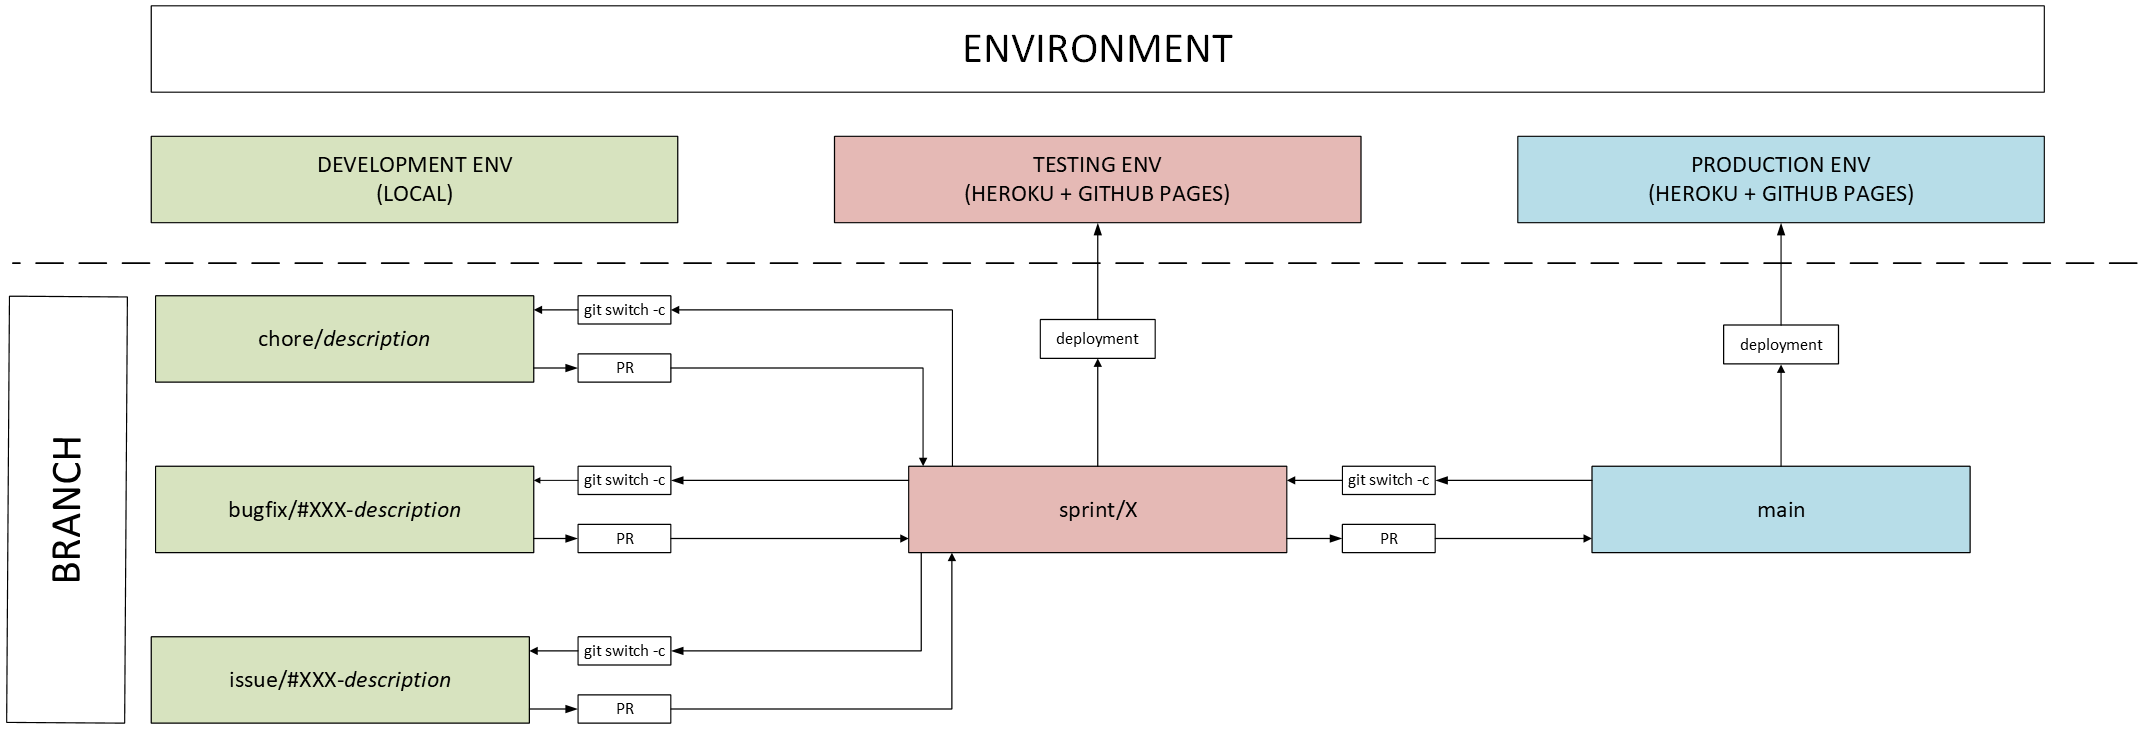
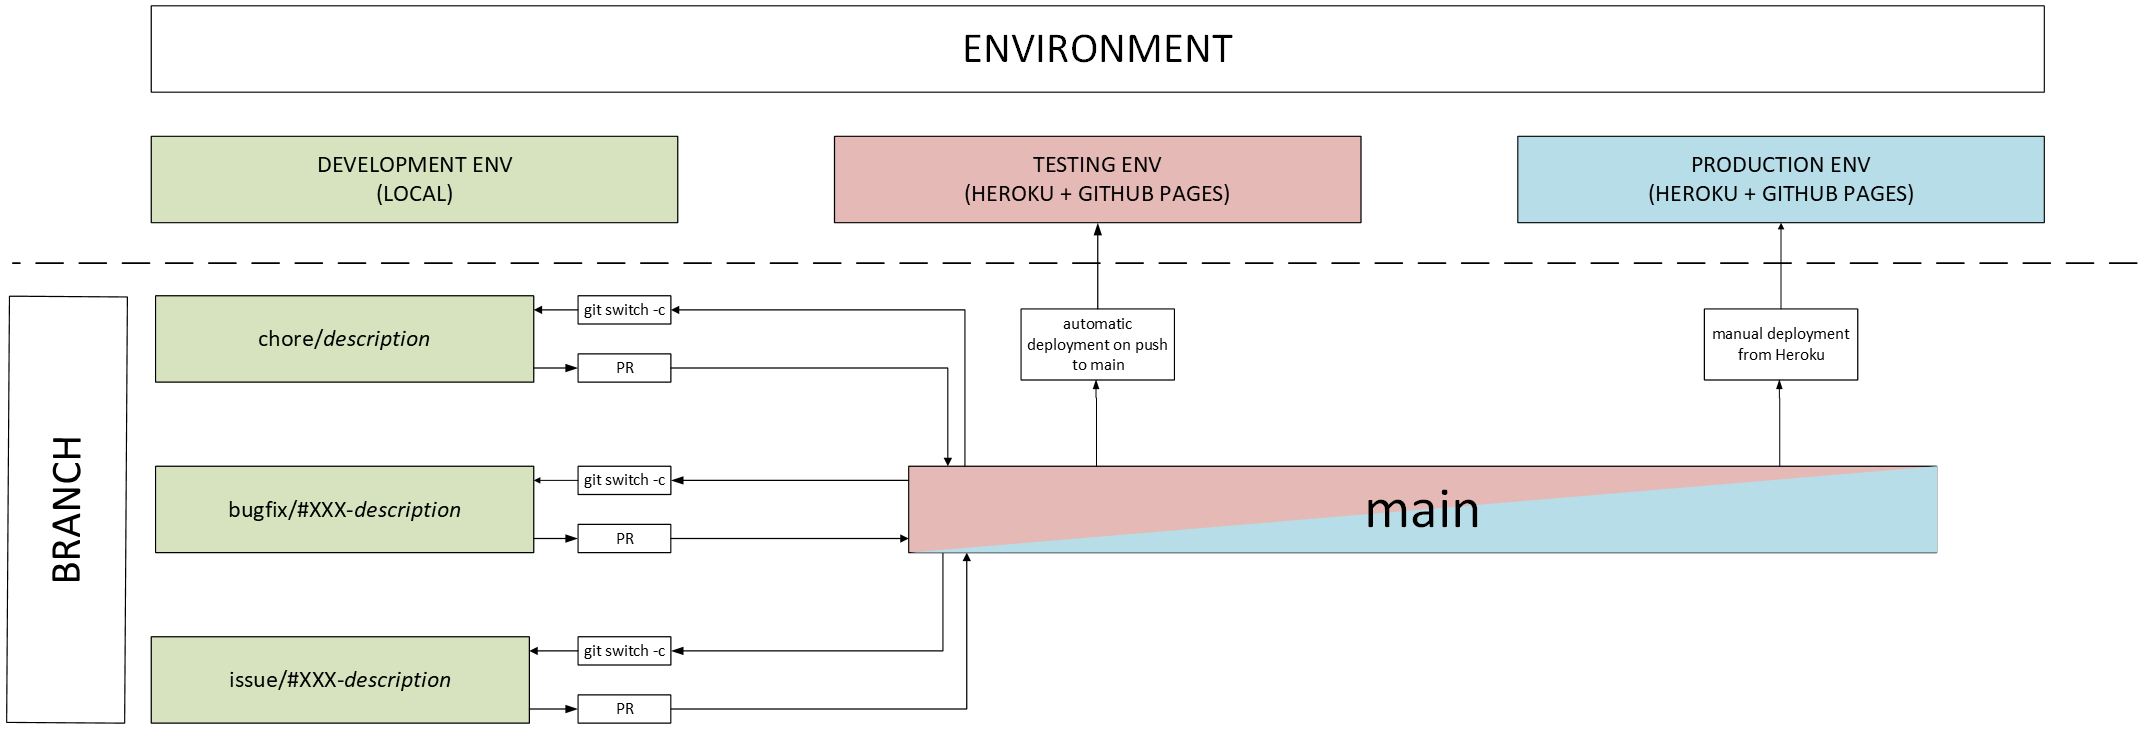
issue/#353-update-branching-and-deployment-docs * update branching strategy and deployment docs * update branching strategy image * update main README

diff --git a/documents/guides/deployment_guide.md b/documents/guides/deployment_guide.md
@@ -4,22 +4,24 @@ This guide describes the step-by-step process of deploying the backend (Heroku) 
 
 We can deploy the app to two different environments: testing (staging) and production environments.
 
-## Backend Deployment (Heroku)
-
-- Testing:
-  - Heroku App Dashboard (testing): https://dashboard.heroku.com/apps/fisma-benefit-app-testing
-  - Testing backend URL: https://fisma-benefit-app-testing-XXXXXXXXX.herokuapp.com/
-- Production:
-  - Heroku App Dashboard (production): https://dashboard.heroku.com/apps/fisma-benefit-app
-  - Production backend URL: https://fisma-benefit-app-XXXXXXXXX.herokuapp.com/
-
 ### Prerequisites
 
-- Heroku account with CLI installed (see [the guide](./heroku_cli_setup.md) on this if needed)
+- Heroku account with CLI installed for logging (see [the guide](./heroku_cli_setup.md) on this if needed)
 - Access to repo: https://github.com/fisma-benefit-app/benefit-app
 - Database credentials available in Heroku Config Vars
+- Heroku backend URLs set up in GitHub Actions repository secrets: `HEROKU_PRODUCTION_URL` and `HEROKU_TESTING_URL`
 
-### 1. Backup Database
+URL values can be found in the `backend-credentials` repository.
+
+## 1. Deployment workflow
+
+Our deployments are handled via Heroku and a GitHub Actions workflow `run-deployments`. See the workflow file here: [run-deployments.yml](../../.github/workflows/run-deployments.yml)
+
+The workflow file is triggered when any backend deployment is done in Heroku. Deployment to testing is done automatically on each merge to `main` branch, and deployment to production is done manually in Heroku, which triggers the frontend production deployment.
+
+The workflow file recognizes which environment (`fisma-benefit-app` for production and `fisma-benefit-app-testing` for testing) is deployed in Heroku, and based on this deploys frontend to either production or testing.
+
+## 2. Backup Database
 
 Before any deployment, ensure a database backup is taken. Get credentials from the `backend-credentials` repo.
 
@@ -37,33 +39,60 @@ psql <db-url> < backup.sql
 # Example: psql postgres://username:password@host:port/dbname < backup.sql
 ```
 
-### 2. Deploy via Heroku Dashboard
+## 3. Deploy to production
 
-1. Open Heroku app:
-   - for testing: https://dashboard.heroku.com/apps/fisma-benefit-app-testing
-   - for production: https://dashboard.heroku.com/apps/fisma-benefit-app
+To deploy to production environments, follow these steps:
+
+1. Open Heroku production app: https://dashboard.heroku.com/apps/fisma-benefit-app
 2. Go to Deploy tab
 3. Ensure GitHub repository `fisma-benefit-app/benefit-app` is connected: we use the same repository for both testing and production deployments
-4. Select correct branch and click `Deploy Branch`
-   - for testing, select branch `sprint/X`
-   - for production, select branch `main`
+4. Under `Manual deploy`, select `main` branch and click `Deploy Branch`
+5. This triggers the `run-deployments` GitHub Actions workflow which
+  - echos a message that backend production deployment is handled by Heroku and not the workflow itself
+  - deploys frontend to GitHub Pages production environment
+  - waits for the frontend production deployment to finish
+  - deploys frontend to GitHub Pages testing environment
 
 Heroku deploys only the `backend` directory thanks to the `subdir buildpack` using the `PROJECT_PATH` config variable.
 
-### 3. Check Logs
+**IMPORTANT:** We need to deploy frontend to testing environment after doing the production deployment, because due to GitHub Pages limitations, the production deployment erases the frontend testing environment. This is because the frontend testing environment is a subpage in our GitHub Pages production page, so deployment to production deploys the whole page again. Running frontend testing deployment re-creates this subpage.
 
-Use Heroku CLI to monitor logs:
+### Production logging
+
+Use Heroku CLI to monitor backend logs:
+
+```bash
+heroku login
+heroku logs --tail --app fisma-benefit-app
+```
+
+Frontend build logs (GitHub Actions) can be found here: https://github.com/fisma-benefit-app/benefit-app/actions (look for “pages-build-deployment”)
+
+## 4. Deploy to testing
+
+To deploy to testing environments, follow these steps:
+
+1. Heroku testing app is set up to automatically deploy to testing after each merge to `main`. There is no need to manually trigger the testing deployment in Heroku.
+2. Heroku's automatic deployment triggers the `run-deployments` GitHub Actions workflow which
+  - echos a message that backend testing deployment is handled by Heroku and not the workflow itself
+  - deploys frontend to GitHub Pages testing environment
+
+Heroku deploys only the `backend` directory thanks to the `subdir buildpack` using the `PROJECT_PATH` config variable.
+
+### Testing logging
+
+Use Heroku CLI to monitor backend logs:
 
 ```bash
 heroku login
 heroku logs --tail --app fisma-benefit-app-testing
-heroku logs --tail --app fisma-benefit-app
 ```
 
-## Frontend Deployment (GitHub Pages)
+Frontend build logs (GitHub Actions) can be found here: https://github.com/fisma-benefit-app/benefit-app/actions (look for “pages-build-deployment”)
 
-- GitHub Pages Dashboard: https://github.com/fisma-benefit-app/benefit-app/settings/pages
-- Build logs (GitHub Actions): https://github.com/fisma-benefit-app/benefit-app/actions (look for “pages-build-deployment”)
+## Frontend deployment from CLI
+
+If you, for some reason, want to do manual frontend deployment to GitHub Pages, follow these steps:
 
 ### 1. Install dependencies
 
@@ -88,18 +117,16 @@ VITE_API_URL=https://fisma-benefit-app-testing-XXXXXXXXX.herokuapp.com
 VITE_BASE_PATH=/benefit-app/testing/
 ```
 
-`VITE_BASE_PATH` must be set here so that Vite knows to dynamically set the base path according to the run deployment script. Without `VITE_BASE_PATH`, deployment fails.
+`VITE_BASE_PATH` must be set here so that Vite knows to dynamically set the base path according to the run deployment script. Without `VITE_BASE_PATH`, deployment fails. You also need the correct backend URLs for `VITE_API_URL`. You can find the URLs in the `backend-credentials` repository.
 
 ### 3. Build & Deploy
 
-Make sure to have pulled the latest changes in `sprint/X` and `main` branches. In `sprint/X`, `X` is the number of the current sprint.
-
-Deployment to testing environment is done from the `sprint/X` branch. Deployment to production environment is done from the `main` branch.
+Make sure you have pulled the latest changes in the `main` branch. Deployment to production and testing environments is done from the `main` branch.
 
 ```bash
 # To deploy to testing environment
-git switch sprint/X
-git pull origin sprint/X
+git switch main
+git pull origin main
 cd frontend
 npm run deploy:testing
 ```
@@ -110,10 +137,15 @@ git switch main
 git pull
 cd frontend
 npm run deploy:production
+# Wait for GitHub Pages deployment to finish (takes maybe 3 minutes)
+npm run deploy:testing
+
+# NOTE: After running production deployment, you need to run testing deployment again! 
+# This is because frontend production deployment erases frontend testing environment
+# This is a GitHub Pages limitation, and the workflow takes this into account
 ```
 
 These run:
-
 - predeploy → builds into `dist/`
 - testing:
   - deploy → publishes `dist/` to GitHub Pages (`gh-pages` branch, `testing` directory)
@@ -130,4 +162,4 @@ These run:
 
 - Always backup the database before backend deployment
 - Ensure `.env.testing` and `.env.production` have the correct Heroku backend URLs and base paths before building frontend to testing or production
-- Run frontend deployment scripts from correct branches (`sprint/X` branch for testing, `main` for production)
+- Run correct frontend deployment scripts to deploy to correct environments from correct branches (`npm run deploy:testing` for testing, `npm run deploy:production` for production)

diff --git a/documents/guides/branching_strategy.md b/documents/guides/branching_strategy.md
@@ -1,8 +1,8 @@
 # Branching strategy guide
 
-This document further explains the branching strategy used inBenefit application's development and CI/CD pipeline.
+This document further explains the branching strategy used in Benefit application's development and CI/CD pipeline.
 
-The goal of the strategy is to simplify development work when multiple developers are working on the same repository, avoid merge conflicts, and proactively prevent deployment-related issues. Branches named according to predefined schemas also tie development work more closely to project management, make branches more understandable to other developers, and eliminate the need to ponder what the branch should be named.
+The goal of the strategy is to simplify development work when multiple developers are working on the same repository, avoid merge conflicts, and proactively prevent deployment-related issues. The following strategy is also open-source contribution friendly. Branches named according to predefined schemas also tie development work more closely to project management, make branches more understandable to other developers, and eliminate the need to ponder what the branch should be named.
 
 ## Branching strategy flow
 
@@ -17,9 +17,9 @@ Here, the branching strategy has been visualized as an image.
 
 The strategy is implemented as outlined below:
 
-1) At the beginning of the sprint, a sprint-specific branch is created from the main branch, named `sprint/X`, where “X” represents the sprint number. For example, for sprint number 9, the branch would be named `sprint/9`. This sprint branch acts as a “collection branch” for all development work done during the sprint. The sprint branch is pushed to GitHub, from where other developers can fetch it into their local development environments.
+1) We use trunk-based development. That means that all merges are done directly to `main`; there are no sprint-specific branches.
 
-2) Developers create local development branches from the sprint branch using, for example, the `git switch -c` command. The naming schema for development branches depends on the type of development:
+2) Developers create local development branches from `main` branch using, for example, the `git switch -c` command. The naming schema for development branches depends on the type of development:
 
     - for feature issues, the naming schema is `issue/#XXX-description`
     - for bugfixes, the naming schema is `bugfix/#XXX-description`
@@ -30,34 +30,29 @@ The strategy is implemented as outlined below:
     - `bugfix/#220-functional-component-shows-wrong-title`
     - `chore/fix-typos-in-documentation`
 
-    This way the branches we open PRs from are clearly linked to a specific issue. Each issue and bugfix on the project board should have its own dedicated branch. Chores are small changes that don't have their own issues due to the minimal effort and impact they have.
+    This way, the branches we open PRs from are clearly linked to a specific issue. Each issue and bugfix on the project board should have its own dedicated branch. Chores are small changes that don't have their own issues due to the minimal effort and impact they have.
 
-3) When a development branch is ready to be merged into the sprint branch, it is pushed to GitHub as a new branch, and a pull request is opened for review by another developer. When each development branch contains changes related to only one issue, it’s easier to keep track of what has been done. It also makes the reviewer’s job easier, as pull requests remain reasonably sized and focused on a single issue.
+3) When a development branch is ready to be merged into `main` branch, it is pushed to GitHub as a new branch, and a pull request is opened for review by another developer. When each development branch contains changes related to only one issue, it’s easier to keep track of what has been done. It also makes the reviewer’s job easier, as pull requests remain reasonably sized and focused on a single issue.
 
     ```
-    !! While coding, if you notice that something not related to the issue you are currently working on could be changed, don't implement it in the same pull request! Instead, create a separate issue and open a separate PR for it. This way our PRs stay clean and compact and all our work gets documented in project management.
+    !! While coding, if you notice that something not related to the issue you are currently working on could be changed, don't implement it in the same pull request!
+    !! Instead, create a separate issue and open a separate PR for it. This way our PRs stay clean and compact and all our work gets documented in project management.
 
     !! If you notice a bug that needs to be fixed, create a bug issue for it and fix it in a separate PR.
     ```
 
-4) After the pull request is approved and automated checks pass, the development branch can be merged into the sprint branch. The development branch is automatically deleted from GitHub.
+4) After the pull request is approved and automated checks pass, the development branch can be merged into `main` branch. The development branch is automatically deleted from GitHub.
 
-5) Steps 2–4 are repeated until the end of the sprint.
+5) Merging into `main` triggers automatic deployment to testing environments in Heroku and GitHub Pages.
 
-6) At the end of the sprint, all changes collected in the sprint branch are merged into the `main` branch via a pull request.
-
-7) Deployment can be done from the `main` branch to bring the sprint’s changes into the production environment (Heroku and GitHub pages).
-
-8) At the beginning of the next sprint, a new sprint branch is created from `main`, and development work begins again from step 1.
+6) Select a new issue to work on and create a new development branch from `main`.
 
 ## Notes
 
 A few notes regarding the strategy:
 
-1) **`main` is sacred** – no development branches should be pushed directly to `main`! This is also enforced through GitHub repository rules. The `main` branch should always reflect the version currently in production. The only exceptions to this rule are hotfixes, which are made directly to the production version. Hotfixes are currently not implemented in the branching strategy.
+1) The separate testing environment can be used to test features in an environment separate from production. See the [deployment guide](./deployment_guide.md) on how to deploy to the testing and production environments.
 
-2) The separate testing environment can be used to test features in an environment separate from production. See the [deployment guide](./deployment_guide.md) on how to deploy to the testing and production environments.
+2) Since the `main` branch is continuously updated with changes made by developers and merged via pull requests, it’s important to regularly pull the latest version of `main` branch into the local environment before creating a new development branch.
 
-3) Since the sprint branch is continuously updated with changes made by developers and merged via pull requests, it’s important to regularly pull the latest version of the sprint branch into the local environment before creating a new development branch.
-
-4) The strategy is not final – it will be adjusted as needed based on experiences gained during development. However, it provides a solid foundation for starting systematic development work involving multiple developers working simultaneously.
+3) The strategy is not final – it will be adjusted as needed based on experiences gained during development. However, it provides a solid foundation for starting systematic development work involving multiple developers working simultaneously.

diff --git a/README.md b/README.md
@@ -385,13 +385,13 @@ Benefit application's CI/CD pipeline includes a branching strategy and automated
 
 ### Branching Strategy
 
-Benefit application's branching strategy is currently following these guidelines:
+Developing the Benefit application is done using trunk-based development. Benefit application's branching strategy is currently following these guidelines:
 
-- `main` branch: production branch, containing finalized and refactored code
-- `sprint/X` branch: branch that includes all changes, added features, bugfixes etc. made during a certain sprint (`X`)
-- `issue/#X` brances: branches what contain changes covered in a single issue (`#X`)
+- `main` branch: production and testing branch
 
-The `main` branch is sacred and pushes to it are prohibited. Changes described in issues are developed in individual `issue/X` branches which are merged to `sprint/X` branch through pull requests. And at the end of a sprint, the `sprint/X` branch is merged to the `main` branch, provided it passes all the checks and tests. For full explanation of the branching strategy, see [branching strategy](./documents/guides/branching_strategy.md).
+All commits are merged to `main` via pull requests. These PRs go through automatic testing and when they are merged, they trigger automatic deployment to testing environment. See [deployment](#deployment) for more information.
+
+For full explanation of the branching strategy, see [branching strategy](./documents/guides/branching_strategy.md).
 
 ### Code Quality and Collaboration
 
@@ -408,6 +408,8 @@ The Benefit application's GitHub repository features a GitHub Actions workflow w
 
 - formatting checks for frontend (Prettier) and backend (Spotless / Google Java Format)
 - backend unit tests
+
+Our automated deployments also utilize GitHub Actions workflows to deploy any merges to `main` to testing environment. See [deployment](#deployment) for more information.
 
 ### Code Quality and Collaboration
 
